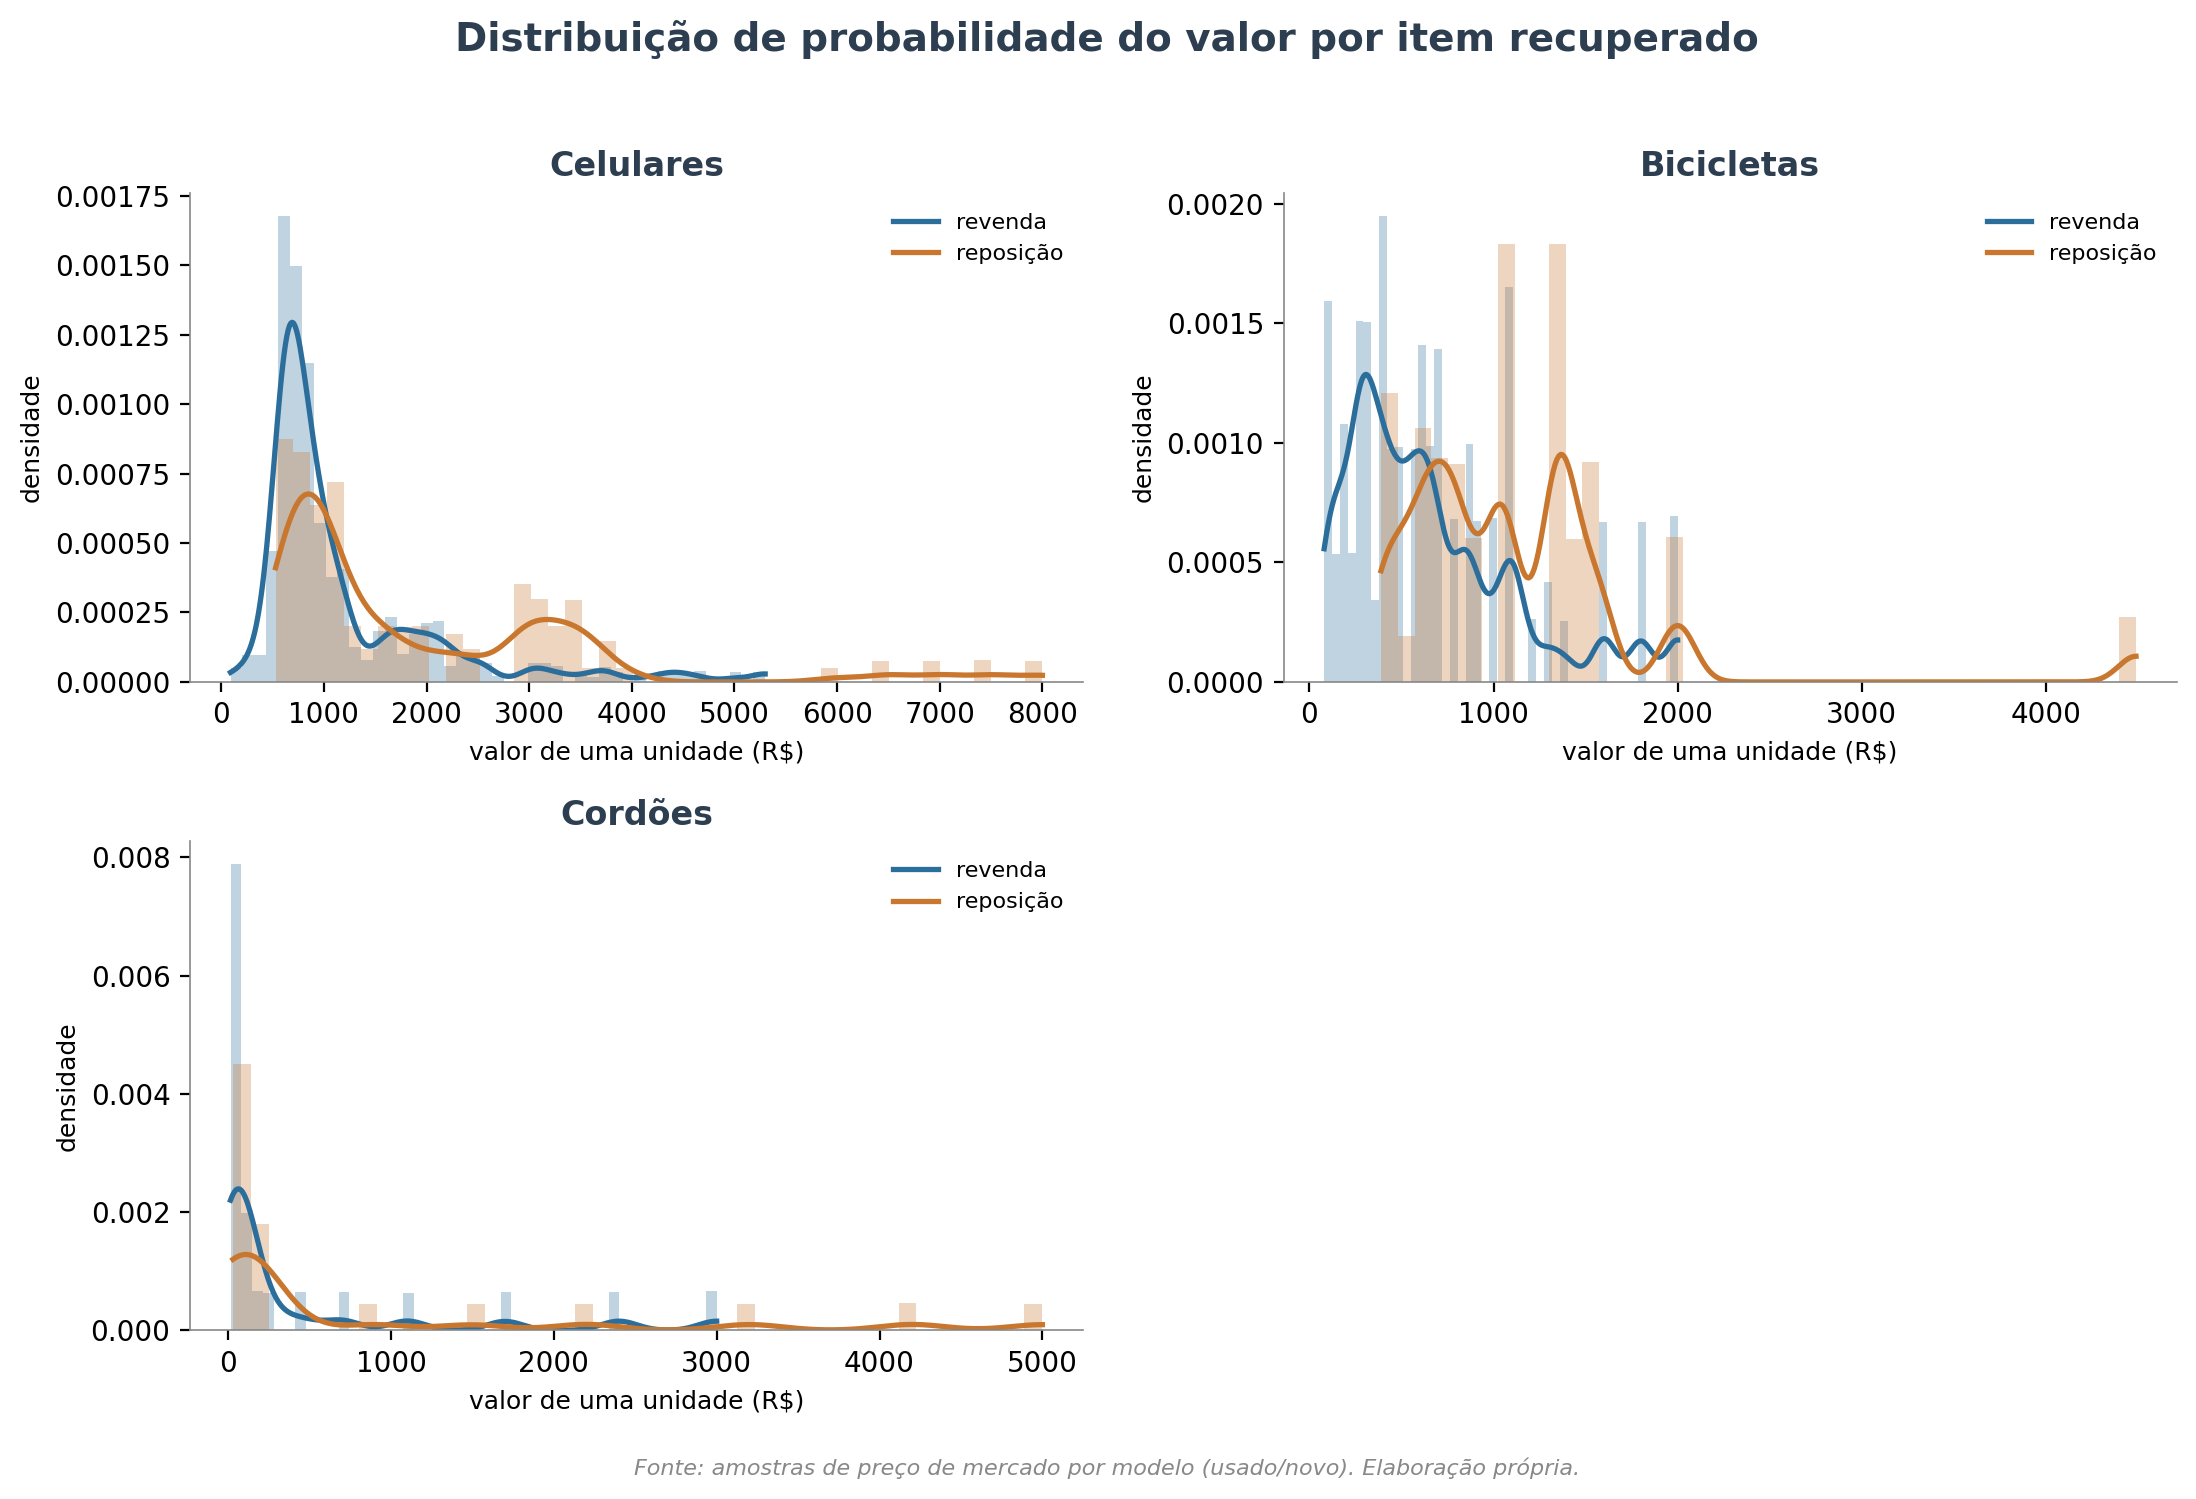
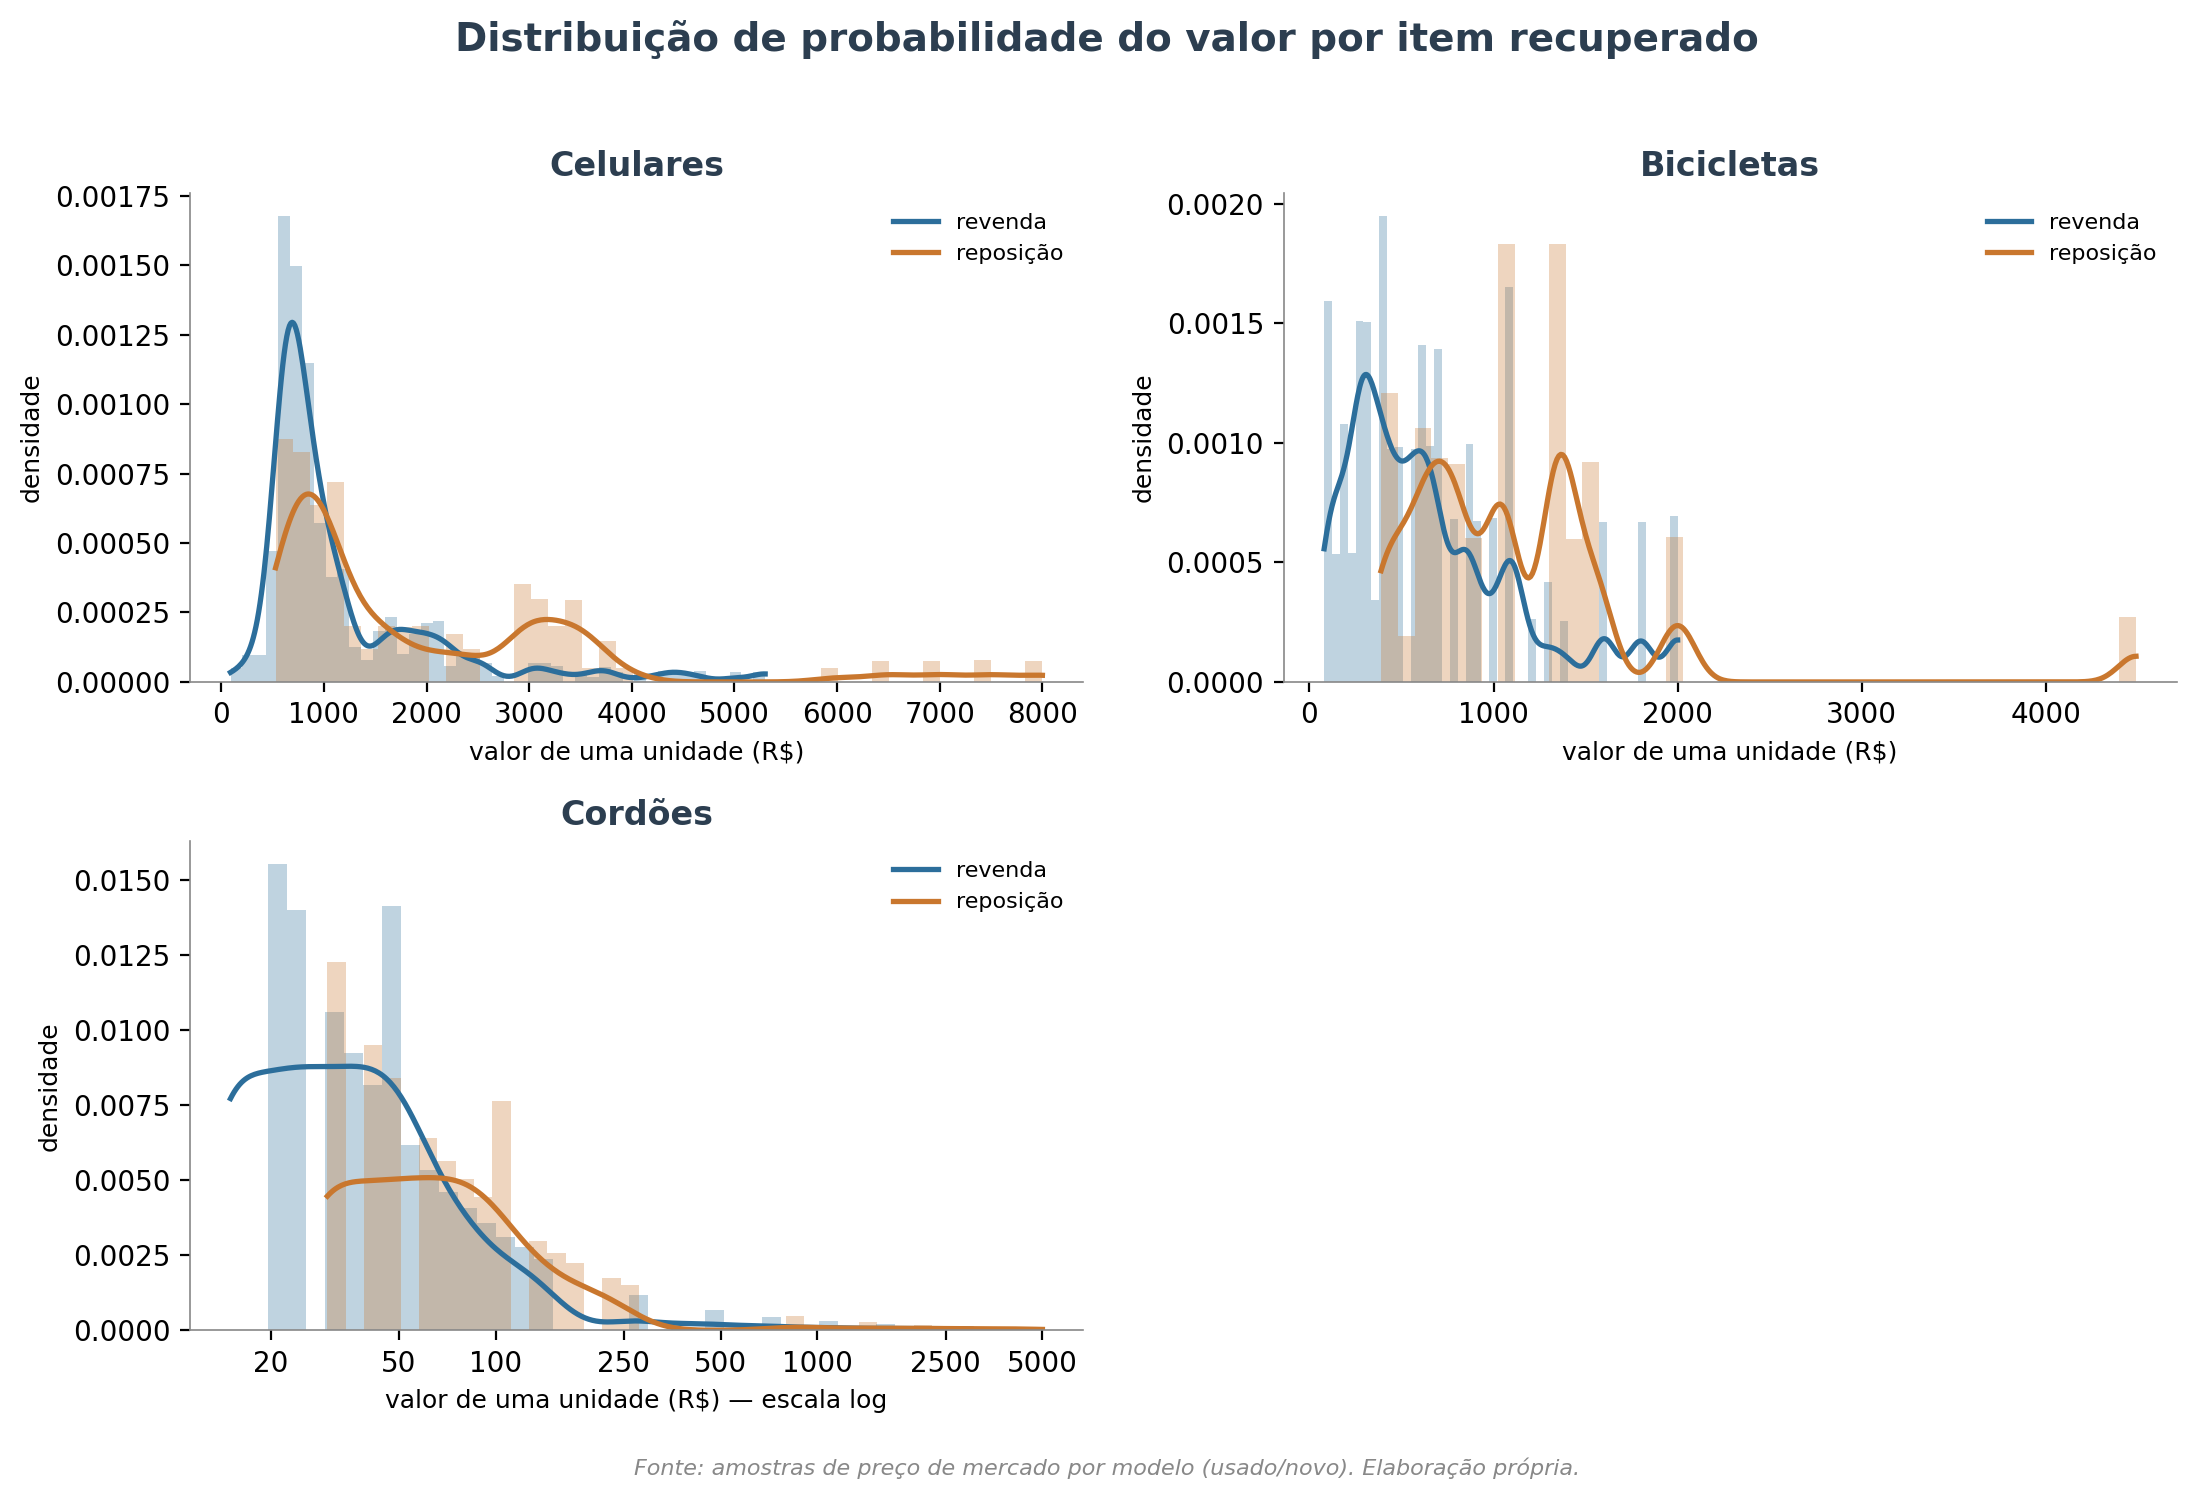
Cordões: consistência numérica no texto + eixo log na figura
- §3.2: corrige totais defasados (1,96→1,94 mi / 2,48→2,43 mi com motos;
  186→163 mil / 312→267 mil sem motos) + bandas de 90%, alinhando ao
  abstract, às tabelas de contribuição e ao dist_stats.
- §3.1: 'praticamente bimodal' → 'o mais assimétrico (massa no folheado,
  cauda fina no ouro, média ≫ mediana)', coerente com a §2.5.
- Sensibilidade ao ouro re-ancorada: coluna central = caso-base f≈30%
  (R64 com motos / R62 sem), igual à Tabela 1; antes a tabela
  (260/391/588) não continha o número-cabeça.
- Figura: eixo-x do cordão em escala log (corpo folheado + cauda ouro
  visíveis; ticks 20/50/100/250/...), com KDE em log10 (Jacobiano).

Changed region(s): [[0.0, 0.5524, 0.4335, 0.9513], [0.4645, 0.8592, 0.4954, 0.8899]]

diff --git a/scripts/gerar_distribuicoes.py b/scripts/gerar_distribuicoes.py
@@ -9,7 +9,7 @@ escreve dist_stats.md (E, desvio, banda 90% por item e total).
 Modelo: V_i^b ~ sum_m w_{i,m} F_hat_{i,m}^b  (escolhe modelo por peso, sorteia preço da amostra).
         V^b = sum_i sum_{k=1..N_i} V_{i,k}^b.
 
-Uso: python scripts/gerar_distribuicoes.py
+Uso: /home/otavio/Documents/vscode/.venv/bin/python scripts/gerar_distribuicoes.py
 """
 import argparse
 import json
@@ -20,6 +20,7 @@ import numpy as np
 from scipy.stats import gaussian_kde
 import matplotlib as mpl
 import matplotlib.pyplot as plt
+from matplotlib.ticker import FuncFormatter
 
 mpl.rcParams.update({
     "font.family": "DejaVu Sans",
@@ -144,23 +145,44 @@ def main():
         seen.add(lab)
         models = norm_models[key]
         ax = axes.flat[panel]; panel += 1
+        # cordão tem cauda muito pesada: escala log no eixo x mostra o corpo
+        # (folheado, R$15-250) E a cauda (ouro, ate R$5 mil) na mesma figura.
+        is_cord = norm(key) in ("cordao", "cordão")
         for base, col, name in (("used", COL_REV, "revenda"), ("new", COL_REP, "reposição")):
             s = unit_sample(models, base, 200_000)
             s = s[np.isfinite(s)]
             hi = np.percentile(s, 99.5)
-            ax.hist(s, bins=45, range=(s.min(), hi), density=True, color=col, alpha=0.30)
-            try:  # curva KDE suave (cara de distribuição de probabilidade)
-                kde = gaussian_kde(RNG.choice(s, size=min(s.size, 20_000), replace=False))
-                xs = np.linspace(s.min(), hi, 400)
-                ax.plot(xs, kde(xs), color=col, lw=1.9, label=name)
-            except Exception:
-                ax.plot([], [], color=col, lw=1.9, label=name)
+            if is_cord:
+                lo = max(float(s.min()), 1.0)
+                bins = np.logspace(np.log10(lo), np.log10(hi), 40)
+                ax.hist(s, bins=bins, density=True, color=col, alpha=0.30)
+                try:  # KDE em log10(x) com Jacobiano -> densidade correta em x
+                    L = np.log10(s[s > 0])
+                    kde = gaussian_kde(RNG.choice(L, size=min(L.size, 20_000), replace=False))
+                    xs = np.logspace(np.log10(lo), np.log10(hi), 400)
+                    ax.plot(xs, kde(np.log10(xs)) / (xs * np.log(10.0)), color=col, lw=1.9, label=name)
+                except Exception:
+                    ax.plot([], [], color=col, lw=1.9, label=name)
+            else:
+                ax.hist(s, bins=45, range=(s.min(), hi), density=True, color=col, alpha=0.30)
+                try:  # curva KDE suave (cara de distribuição de probabilidade)
+                    kde = gaussian_kde(RNG.choice(s, size=min(s.size, 20_000), replace=False))
+                    xs = np.linspace(s.min(), hi, 400)
+                    ax.plot(xs, kde(xs), color=col, lw=1.9, label=name)
+                except Exception:
+                    ax.plot([], [], color=col, lw=1.9, label=name)
             stats_lines.append(f"| {lab} | {name} | {fmt(s.mean())} | {fmt(s.std())} | {fmt(np.percentile(s,5))} | {fmt(np.percentile(s,95))} |")
         ax.set_title(lab, fontsize=12, fontweight="bold", color="#2C3E50")
-        ax.set_xlabel("valor de uma unidade (R$)", fontsize=9)
+        ax.set_xlabel("valor de uma unidade (R$)" + (" — escala log" if is_cord else ""), fontsize=9)
         ax.set_ylabel("densidade", fontsize=9)
         ax.legend(fontsize=8, frameon=False)
-        ax.ticklabel_format(style="plain", axis="x")
+        if is_cord:
+            ax.set_xscale("log")
+            ax.set_xticks([20, 50, 100, 250, 500, 1000, 2500, 5000])
+            ax.xaxis.set_major_formatter(FuncFormatter(lambda v, _: f"{int(v)}"))
+            ax.minorticks_off()
+        else:
+            ax.ticklabel_format(style="plain", axis="x")
     for k in range(panel, 4):
         axes.flat[k].axis("off")
     fig.suptitle("Distribuição de probabilidade do valor por item recuperado",

diff --git a/paper/recuperacoes_sem_motos.tex b/paper/recuperacoes_sem_motos.tex
@@ -141,20 +141,24 @@ vem ampliando o roubo dirigido (alianças em SP mais que dobraram entre 2023 e 2
 fração de ouro entra como \emph{sensibilidade}, não como número cravado.
 
 \textbf{Sensibilidade à fração de ouro $f$.} Como a composição é premissa, reportamos o efeito de
-variar $f$ entre os cordões:
+variar $f$. O caso-base da Tabela~\ref{tab:itens} ($\mathbb{E}[V_{\text{cord}}]=\reais{462}$ em
+revenda) corresponde a $f\approx30\%$: cerca de um terço das faixas de preço amostradas ($n=23$)
+são peças de ouro (as faixas acima de \reais{250}), o restante é folheado/semijoia. Variando $f$ em
+torno desse caso-base:
 \begin{center}\small
 \begin{tabular}{lccc}
 \toprule
-$f$ (fração de ouro) & 15\% & 25\% & 40\% \\
+$f$ (fração de ouro) & 15\% & $\approx$30\% (base) & 40\% \\
 \midrule
-$\mathbb{E}[V_{\text{cord}}]$ (revenda) & \reais{260} & \reais{391} & \reais{588} \\
-Total $V^{\text{rev}}$ & \reais{160} mil & \reais{162} mil & \reais{165} mil \\
+$\mathbb{E}[V_{\text{cord}}]$ (revenda) & \reais{260} & \reais{462} & \reais{588} \\
+Total $V^{\text{rev}}$ & \reais{160} mil & \reais{163} mil & \reais{165} mil \\
 \bottomrule
 \end{tabular}
 \end{center}
-A conclusão é robusta: como os cordões são $\approx$4\% do patrimônio, o total varia menos de 3\%
-mesmo dobrando $f$. As cifras de preço (folheado \reais{8}--\reais{250}; ouro 18k
-$\approx$\reais{530}/g) seguem documentadas no inventário.
+A conclusão é robusta: como os cordões são $\approx$4\% do patrimônio (Tabela~\ref{tab:contrib}), o
+total varia cerca de 3\% mesmo dobrando $f$. As cifras de preço (folheado \reais{15}--\reais{250};
+cordões de ouro 18k de \reais{280} a \reais{3.000}, à cotação $\approx$\reais{530}/g) seguem
+documentadas no inventário.
 
 
 % =====================================================================
@@ -164,14 +168,17 @@ $\approx$\reais{530}/g) seguem documentadas no inventário.
 \subsection{Distribuição de valor por item}
 A Figura~\ref{fig:itens} mostra a distribuição de valor de uma unidade recuperada de cada
 categoria, nas duas bases. As formas são informativas: o celular é fortemente assimétrico à
-direita (massa em aparelhos de entrada, cauda nos \emph{flagships}); o cordão é praticamente
-bimodal (folheados de baixo valor e peças de ouro). A Tabela~\ref{tab:itens} resume os momentos.
+direita (massa em aparelhos de entrada, cauda nos \emph{flagships}); o cordão é o mais assimétrico
+--- a massa fica no folheado de baixo valor, com cauda longa e fina nas peças de ouro (média bem
+acima da mediana). A Tabela~\ref{tab:itens} resume os momentos.
 
 \begin{figure}[H]
   \centering
   \includegraphics[width=\linewidth]{dist_itens}
   \caption{Distribuição de probabilidade do valor de uma unidade recuperada, por categoria
-  (azul: revenda/usado; laranja: reposição/novo). Histograma das amostras com densidade KDE.}
+  (azul: revenda/usado; laranja: reposição/novo). Histograma das amostras com densidade KDE.
+  O painel dos cordões usa escala logarítmica no eixo $x$ para exibir o corpo (folheado) e a
+  cauda (ouro) simultaneamente.}
   \label{fig:itens}
 \end{figure}
 
@@ -196,9 +203,9 @@ bimodal (folheados de baixo valor e peças de ouro). A Tabela~\ref{tab:itens} re
 
 \subsection{Valor total recuperado}
 Agregando (Eq.~\eqref{eq:total}), o valor esperado do patrimônio recuperado é de
-\textbf{\reais{186} mil} a preços de revenda e \textbf{\reais{312} mil} a preços de reposição. A
+\textbf{\reais{163} mil} a preços de revenda e \textbf{\reais{267} mil} a preços de reposição. A
 Figura~\ref{fig:total} mostra as duas distribuições com suas bandas de 90\%
-(\reais{163}--\reais{211} mil e \reais{271}--\reais{357} mil). A Tabela~\ref{tab:contrib} detalha a
+(\reais{145}--\reais{181} mil e \reais{237}--\reais{299} mil). A Tabela~\ref{tab:contrib} detalha a
 contribuição por categoria: os \textbf{celulares} respondem por cerca de \textbf{88\%} do total.
 
 \begin{figure}[H]

diff --git a/paper/recuperacoes.tex b/paper/recuperacoes.tex
@@ -146,20 +146,24 @@ vem ampliando o roubo dirigido (alianças em SP mais que dobraram entre 2023 e 2
 fração de ouro entra como \emph{sensibilidade}, não como número cravado.
 
 \textbf{Sensibilidade à fração de ouro $f$.} Como a composição é premissa, reportamos o efeito de
-variar $f$ entre os cordões:
+variar $f$. O caso-base da Tabela~\ref{tab:itens} ($\mathbb{E}[V_{\text{cord}}]=\reais{464}$ em
+revenda) corresponde a $f\approx30\%$: cerca de um terço das faixas de preço amostradas ($n=23$)
+são peças de ouro (as faixas acima de \reais{250}), o restante é folheado/semijoia. Variando $f$ em
+torno desse caso-base:
 \begin{center}\small
 \begin{tabular}{lccc}
 \toprule
-$f$ (fração de ouro) & 15\% & 25\% & 40\% \\
+$f$ (fração de ouro) & 15\% & $\approx$30\% (base) & 40\% \\
 \midrule
-$\mathbb{E}[V_{\text{cord}}]$ (revenda) & \reais{260} & \reais{391} & \reais{588} \\
+$\mathbb{E}[V_{\text{cord}}]$ (revenda) & \reais{260} & \reais{464} & \reais{588} \\
 Total $V^{\text{rev}}$ & \reais{1{,}93} mi & \reais{1{,}94} mi & \reais{1{,}94} mi \\
 \bottomrule
 \end{tabular}
 \end{center}
-A conclusão é robusta: como os cordões são $\approx$1\% do patrimônio, o número-cabeça praticamente
-não se move com $f$. As cifras de preço (folheado \reais{8}--\reais{250}; ouro 18k
-$\approx$\reais{530}/g) seguem documentadas no inventário.
+A conclusão é robusta: como os cordões são menos de 1\% do patrimônio (Tabela~\ref{tab:contrib}), o
+número-cabeça praticamente não se move com $f$. As cifras de preço (folheado \reais{15}--\reais{250};
+cordões de ouro 18k de \reais{280} a \reais{3.000}, à cotação $\approx$\reais{530}/g) seguem
+documentadas no inventário.
 
 
 % =====================================================================
@@ -170,14 +174,17 @@ $\approx$\reais{530}/g) seguem documentadas no inventário.
 A Figura~\ref{fig:itens} mostra a distribuição de valor de uma unidade recuperada de cada
 categoria, nas duas bases. As formas são informativas: o celular é fortemente assimétrico à
 direita (massa em aparelhos de entrada, cauda nos \emph{flagships}); a moto concentra-se entre
-\reais{10} e \reais{25} mil; o cordão é praticamente bimodal (folheados de baixo valor e peças de
-ouro). A Tabela~\ref{tab:itens} resume os momentos.
+\reais{10} e \reais{25} mil; o cordão é o mais assimétrico de todos --- a massa fica no folheado de
+baixo valor, com cauda longa e fina nas peças de ouro (média bem acima da mediana). A
+Tabela~\ref{tab:itens} resume os momentos.
 
 \begin{figure}[H]
   \centering
   \includegraphics[width=\linewidth]{dist_itens}
   \caption{Distribuição de probabilidade do valor de uma unidade recuperada, por categoria
-  (azul: revenda/usado; laranja: reposição/novo). Histograma das amostras com densidade KDE.}
+  (azul: revenda/usado; laranja: reposição/novo). Histograma das amostras com densidade KDE.
+  O painel dos cordões usa escala logarítmica no eixo $x$ para exibir o corpo (folheado) e a
+  cauda (ouro) simultaneamente.}
   \label{fig:itens}
 \end{figure}
 
@@ -204,9 +211,9 @@ ouro). A Tabela~\ref{tab:itens} resume os momentos.
 
 \subsection{Valor total recuperado}
 Agregando (Eq.~\eqref{eq:total}), o valor esperado do patrimônio recuperado é de
-\textbf{\reais{1{,}96} milhão} a preços de revenda e \textbf{\reais{2{,}48} milhões} a preços de
+\textbf{\reais{1{,}94} milhão} a preços de revenda e \textbf{\reais{2{,}43} milhões} a preços de
 reposição. A Figura~\ref{fig:total} mostra as duas distribuições com suas bandas de 90\%
-(\reais{1{,}88}--\reais{2{,}04} mi e \reais{2{,}38}--\reais{2{,}58} mi). A
+(\reais{1{,}86}--\reais{2{,}01} mi e \reais{2{,}34}--\reais{2{,}53} mi). A
 Tabela~\ref{tab:contrib} detalha a contribuição por categoria: as motocicletas respondem por
 \textbf{$\approx$90\%} do total.
 